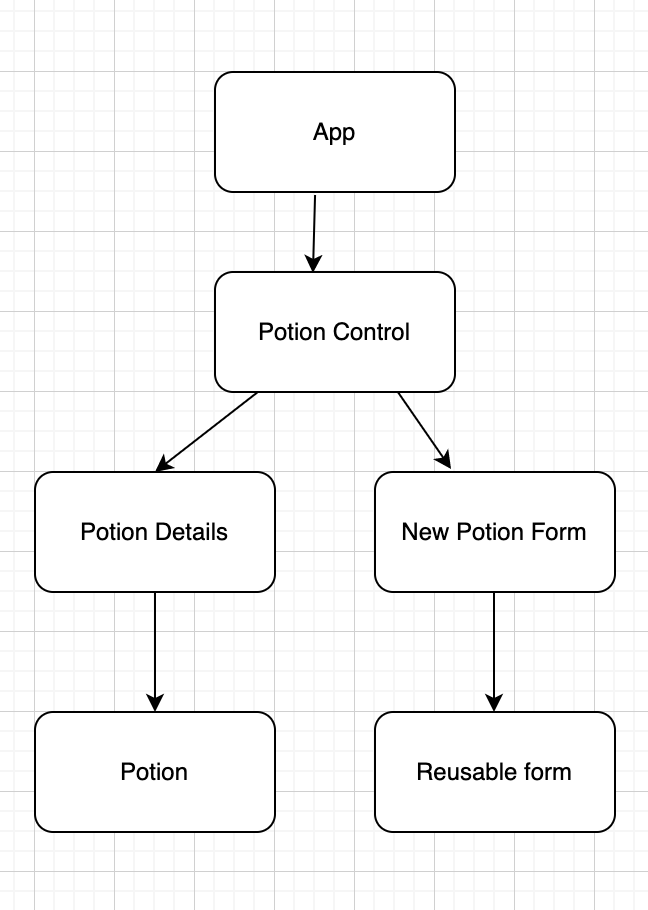
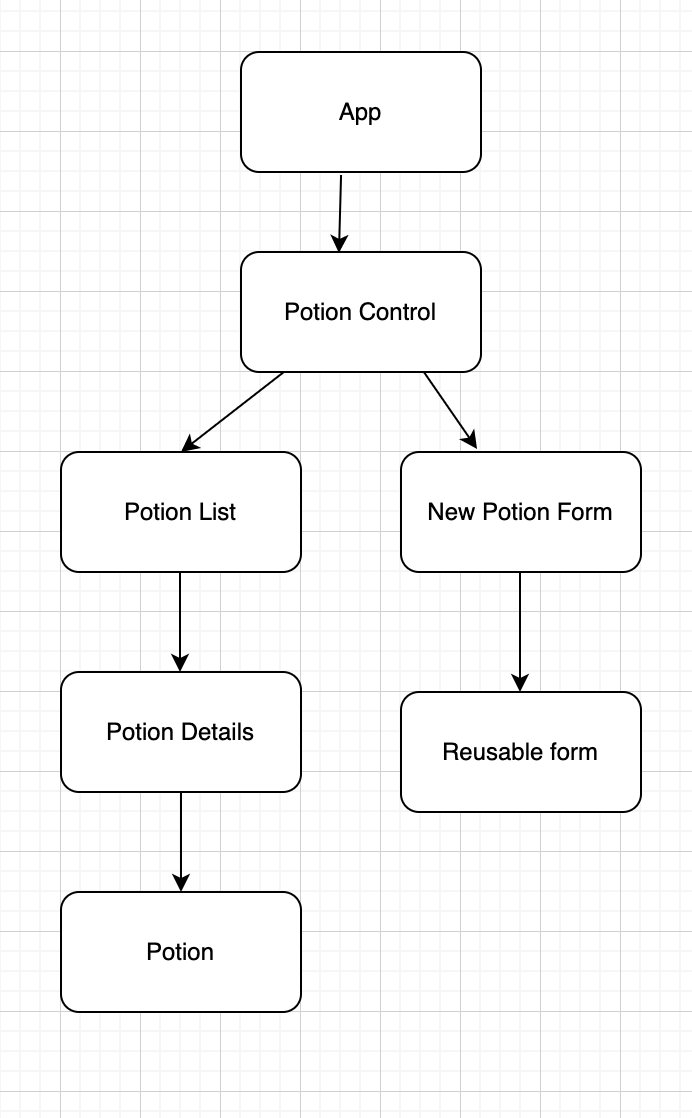
potion path WIP, updated img for potion path

diff --git a/src/components/PotionControl.js b/src/components/PotionControl.js
@@ -1,0 +1,103 @@
+import React from 'react';
+import NewPotionForm from './NewPotionForm';
+import PotionList from './PotionList';
+import PotionDetail from './PotionDetail';
+import EditPotionForm from './EditPotionForm';
+
+class PotionControl extends React.Component {
+
+  constructor(props) {
+    super(props);
+    this.state = {
+      formVisibleOnPage: false,
+      mainPotionList: [],
+      selectedPotion: null,
+      editing: false
+    };
+    this.handleClick = this.handleClick.bind(this);
+  }
+
+
+  handleAddingNewPotionToList = (newPotion) => {
+    const newMainPotionList = this.state.mainPotionList.concat(newPotion);
+    this.setState({mainPotionList: newMainPotionList,
+                  formVisibleOnPage: false });
+  }
+
+  handleClick = () => {
+    if (this.state.selectedPotion != null) {
+      this.setState({
+        formVisibleOnPage: false,
+        selectedPotion: null,
+        editing: false
+      });
+    } else {
+      this.setState(prevState => ({
+        formVisibleOnPage: !prevState.formVisibleOnPage,
+      }));
+    }
+  }
+
+  handleChangingSelectedPotion = (id) => {
+    const selectedPotion = this.state.mainPotionList.filter(potion => potion.id === id)[0];
+    this.setState({selectedPotion: selectedPotion});
+  }
+
+  handleDeletingPotion = (id) => {
+    const newMainPotionList = this.state.mainPotionList.filter(potion => potion.id !== id);
+    this.setState({
+      mainPotionList: newMainPotionList,
+      selectedPotion: null
+    });
+  }
+
+  handleEditClick = () => {
+    console.log("handleEditClick reached!");
+    this.setState({editing: true});
+  }
+
+  handleEditingPotionInList = (potionToEdit) => {
+    const editedMainPotionList = this.state.mainPotionList
+      .filter(potion => potion.id !== this.state.selectedPotion.id)
+      .concat(potionToEdit);
+    this.setState({
+        mainPotionList: editedMainPotionList,
+        editing: false,
+        selectedPotion: null
+      });
+  }
+
+  render(){
+    let currentlyVisibleState = null;
+    let buttonText = null; 
+    if (this.state.editing ) {      
+      currentlyVisibleState = <EditPotionForm potion = {this.state.selectedPotion}
+                                              onEditPotion = {this.handleEditingPotionInList} />
+      buttonText = "Return to Potion List";
+    } else if (this.state.selectedPotion != null) {
+      currentlyVisibleState = <PotionDetail potion = {this.state.selectedPotion} 
+                                            onClickingDelete = {this.handleDeletingPotion}
+                                            onClickingEdit = {this.handleEditClick} />
+      buttonText = "Return to Potion List";
+      // While our PotionDetail component only takes placeholder data, we will eventually be passing the value of selectedPotion as a prop.
+    } else if (this.state.formVisibleOnPage) {
+      // This conditional needs to be updated to "else if."
+      currentlyVisibleState = <NewPotionForm onNewPotionCreation={this.handleAddingNewPotionToList}  />;
+      buttonText = "Return to Potion List";
+    } else {
+      currentlyVisibleState = <PotionList potionList={this.state.mainPotionList} onPotionSelection={this.handleChangingSelectedPotion} />;
+      // Because a user will actually be clicking on the potion in the Potion component, we will need to pass our new handleChangingSelectedPotion method as a prop.
+      buttonText = "Add Potion";
+    }
+
+    return (
+      <React.Fragment>
+        {currentlyVisibleState}
+        <button onClick={this.handleClick}>{buttonText}</button> 
+      </React.Fragment>
+    );
+  }
+
+}
+
+export default PotionControl;

diff --git a/src/components/App.js b/src/components/App.js
@@ -1,24 +1,13 @@
-import logo from './logo.svg';
-import './App.css';
+import React from "react";
+import Header from "./Header";
+import PotionControl from "./PotionControl";
 
-function App() {
+function App(){
   return (
-    <div className="App">
-      <header className="App-header">
-        <img src={logo} className="App-logo" alt="logo" />
-        <p>
-          Edit <code>src/App.js</code> and save to reload.
-        </p>
-        <a
-          className="App-link"
-          href="https://reactjs.org"
-          target="_blank"
-          rel="noopener noreferrer"
-        >
-          Learn React
-        </a>
-      </header>
-    </div>
+    <React.Fragment>
+      <Header />
+      <PotionControl />
+    </React.Fragment>
   );
 }
 

diff --git a/src/components/PotionList.js b/src/components/PotionList.js
@@ -1,0 +1,30 @@
+import React from "react";
+import Potion from "./Potion";
+import PropTypes from "prop-types";
+
+
+
+function PotionList(props){
+  return (
+    <React.Fragment>
+      <hr/>
+      {props.potionList.map((potion) =>
+        <Potion
+          whenPotionClicked = { props.onPotionSelection }
+          names={potion.names}
+          type={potion.type}
+          effect={potion.effect}
+          id={potion.id}
+          key={potion.id}/>
+      )}
+      </React.Fragment>
+  );
+}
+
+// Add propTypes for potionList.
+PotionList.propTypes = {
+  potionList: PropTypes.array,
+  onPotionSelection: PropTypes.func
+};
+
+export default PotionList;
